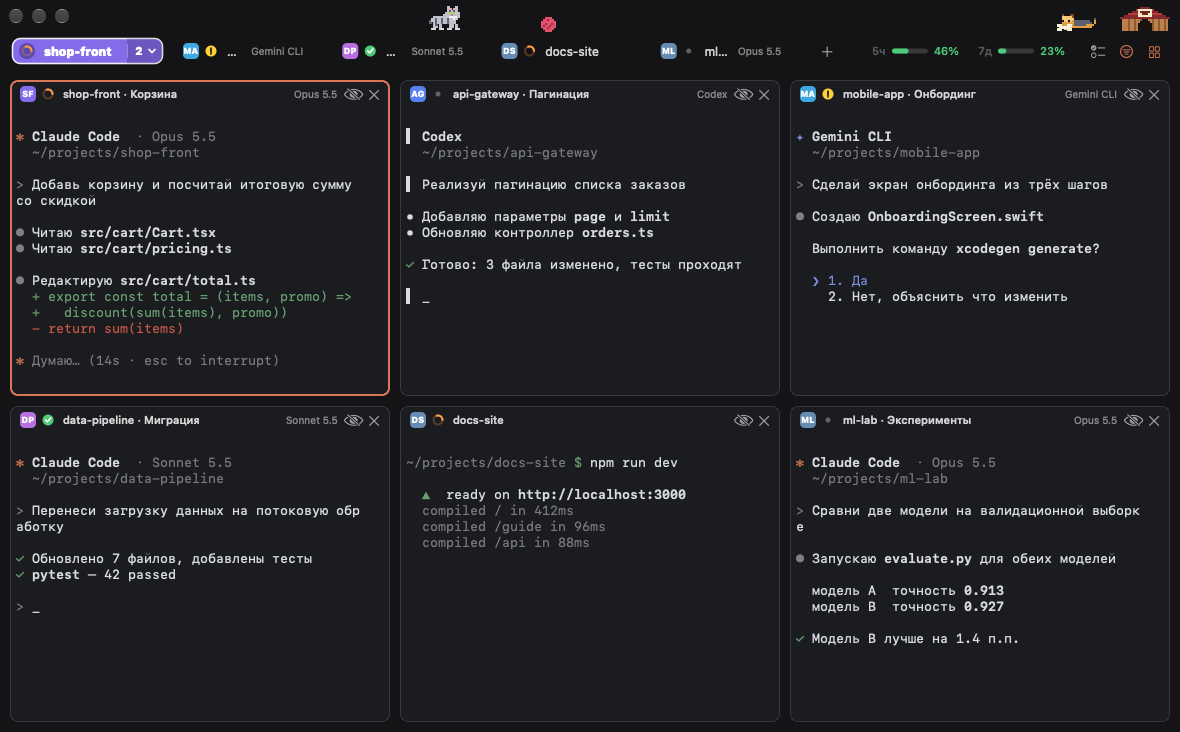
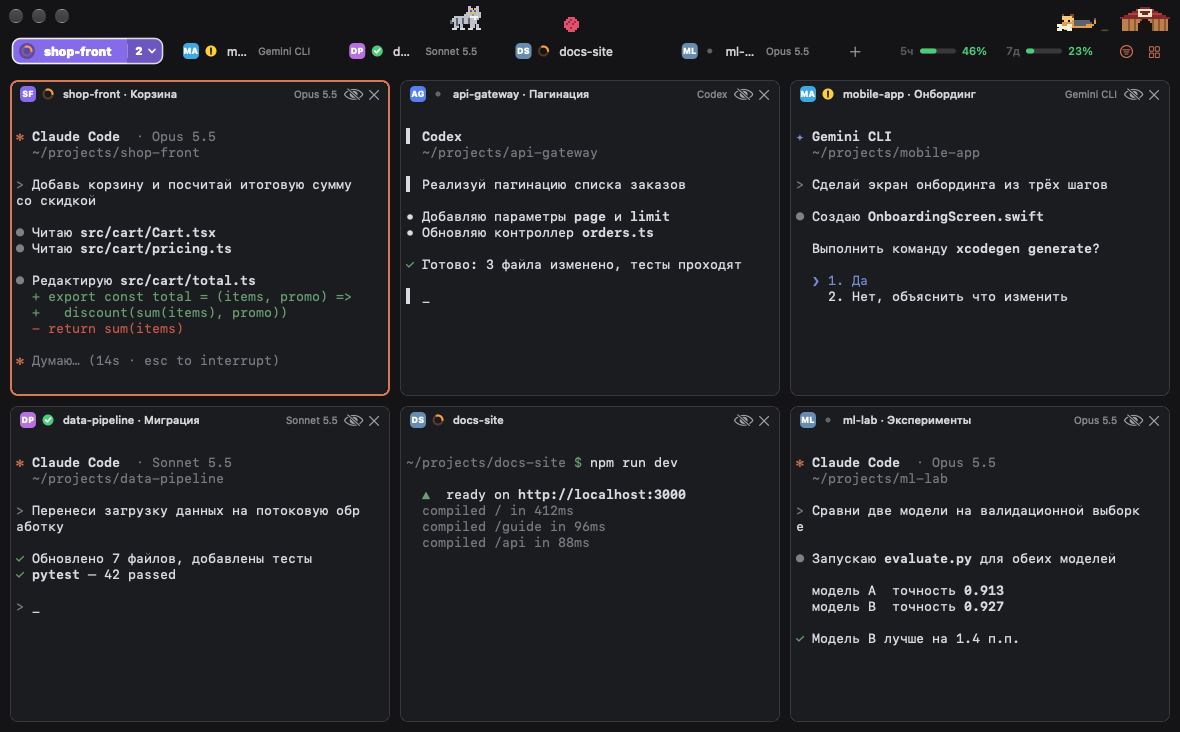
Убрана панель плана агента (0.19.0)
Панель, чтение плана из расшифровки, пример плана, кнопка в панели вкладок,
прогресс в шапке окна сетки, пункты меню, картинка и раздел в README удалены.

diff --git a/Sources/Terminalus/TerminalSession.swift b/Sources/Terminalus/TerminalSession.swift
@@ -155,13 +155,6 @@ final class TerminalSession: LocalProcessTerminalViewDelegate {
     private(set) var contextPercent: Int?
     /// Идентификатор сеанса Claude (из statusLine) — чтобы будить вкладку точным `claude --resume`.
     private(set) var claudeSessionID: String?
-    /// Файл расшифровки сеанса (из statusLine) и прочитанный из него план.
-    private(set) var transcriptPath: String?
-    private(set) var plan: AgentPlan?
-    private var planMTime: Date?
-    private var planCheckedAt = Date.distantPast
-    /// Показан вымышленный пример плана (меню «Вид → Пример плана в панели»).
-    private(set) var demoPlanActive = false
     /// Вкладка в архиве: процессы остановлены, вкладка и её бейдж остаются.
     private(set) var isSleeping = false
     private var selectedAt = Date()
@@ -279,42 +272,6 @@ final class TerminalSession: LocalProcessTerminalViewDelegate {
 
     func touch() { selectedAt = Date() }
 
-    /// Обновляет план из расшифровки (не чаще раза в 2 с и только если файл изменился).
-    func refreshPlan(force: Bool = false) {
-        if demoPlanActive { return }
-        guard agentID == "claude", let path = transcriptPath else { if plan != nil { plan = nil }; return }
-        let now = Date()
-        guard force || now.timeIntervalSince(planCheckedAt) >= 2 else { return }
-        planCheckedAt = now
-        guard let m = (try? FileManager.default.attributesOfItem(atPath: path))?[.modificationDate] as? Date else { return }
-        guard force || m != planMTime else { return }
-        planMTime = m
-        let newPlan = PlanReader.read(transcriptPath: path)
-        if newPlan != plan { plan = newPlan }
-    }
-
-    /// Для демонстрационных скриншотов.
-    func applyDemoPlan(_ p: AgentPlan?) { plan = p }
-
-    /// Вымышленный план — чтобы посмотреть, как выглядит панель, пока у агента нет настоящего.
-    func setDemoPlan(_ on: Bool) {
-        demoPlanActive = on
-        if on {
-            plan = AgentPlan(items: [
-                PlanItem(text: "Изучить, как устроена авторизация сейчас", active: nil, status: .completed),
-                PlanItem(text: "Добавить таблицу сессий в базу", active: nil, status: .completed),
-                PlanItem(text: "Реализовать вход по почте и паролю", active: "Реализую вход по почте и паролю", status: .inProgress),
-                PlanItem(text: "Подключить проверку токена в API", active: nil, status: .pending),
-                PlanItem(text: "Написать тесты для входа и выхода", active: nil, status: .pending),
-                PlanItem(text: "Обновить документацию", active: nil, status: .pending),
-            ], planText: nil)
-        } else {
-            plan = nil
-            planMTime = nil
-            refreshPlan(force: true)
-        }
-    }
-
     /// Для демонстрационных скриншотов: задать вымышленное состояние.
     func applyDemo(status: SessionStatus, model: String?, context: Int?, agent: String?) {
         self.status = status
@@ -350,7 +307,6 @@ final class TerminalSession: LocalProcessTerminalViewDelegate {
         guard let data = try? Data(contentsOf: tabFileURL),
               let obj = (try? JSONSerialization.jsonObject(with: data)) as? [String: Any] else { return }
         if let sid = obj["session_id"] as? String, !sid.isEmpty { claudeSessionID = sid }
-        if let tp = obj["transcript_path"] as? String, !tp.isEmpty { transcriptPath = tp }
         if let model = obj["model"] as? [String: Any], let n = model["display_name"] as? String { modelName = n }
         if let cw = obj["context_window"] as? [String: Any],
            let p = (cw["used_percentage"] as? NSNumber)?.intValue { contextPercent = p }
@@ -432,9 +388,7 @@ final class TerminalSession: LocalProcessTerminalViewDelegate {
     func tick(isSelected: Bool) -> Bool {
         if isSleeping { return false }
         let before = (displayTitle, status, cwd, modelName, contextPercent, agentID)
-        let planBefore = plan
         refreshModel()
-        refreshPlan()
 
         let pid = view.process.shellPid
         if pid > 0, let d = Self.cwd(of: pid), d != cwd {
@@ -479,7 +433,7 @@ final class TerminalSession: LocalProcessTerminalViewDelegate {
                 onEvent?(.finished)
             }
         }
-        return before != (displayTitle, status, cwd, modelName, contextPercent, agentID) || plan != planBefore
+        return before != (displayTitle, status, cwd, modelName, contextPercent, agentID)
     }
 
     // MARK: LocalProcessTerminalViewDelegate

diff --git a/Sources/Terminalus/MainWindowController.swift b/Sources/Terminalus/MainWindowController.swift
@@ -39,7 +39,6 @@ final class MainWindowController: NSWindowController, NSWindowDelegate {
     private let tabBar = TabBarView(frame: .zero)
     private let content = NSView()
     private let grid = GridView(frame: .zero)
-    private let planPanel = PlanPanelView(frame: .zero)
     private let catView = CatView(frame: .zero)
 
     private var selected: TerminalSession? { sessions.first { $0.id == selectedID } }
@@ -62,13 +61,11 @@ final class MainWindowController: NSWindowController, NSWindowDelegate {
         root.autoresizingMask = [.width, .height]
         window.contentView = root
 
-        content.autoresizingMask = []          // размеры задаёт layoutRoot (справа может быть панель плана)
-        planPanel.autoresizingMask = []
+        content.autoresizingMask = [.width, .height]
         content.wantsLayer = true
         content.layer?.backgroundColor = Theme.terminalBG.cgColor
         tabBar.autoresizingMask = [.width, .minYMargin]
         root.addSubview(content)
-        root.addSubview(planPanel)
         root.addSubview(tabBar)
         layoutRoot()
 
@@ -87,7 +84,6 @@ final class MainWindowController: NSWindowController, NSWindowDelegate {
         tabBar.onFilter = { [weak self] in self?.showGridFilterMenu(from: $0) }
         tabBar.onMove = { [weak self] id, idx in self?.move(id, toInsertionIndex: idx) }
         tabBar.onBackToGrid = { [weak self] in self?.setGrid(true) }
-        tabBar.onTogglePlan = { [weak self] in self?.togglePlanPanel() }
         tabBar.tabMenuProvider = { [weak self] id in self?.tabMenu(for: id) }
         tabBar.onShowPinned = { [weak self] in self?.showPinnedMenu(from: $0) }
 
@@ -495,31 +491,8 @@ final class MainWindowController: NSWindowController, NSWindowDelegate {
     private func layoutRoot() {
         guard let root = window?.contentView else { return }
         let h = TabBarView.height
-        let pw: CGFloat = Settings.planPanel ? PlanPanelView.width : 0
         tabBar.frame = NSRect(x: 0, y: root.bounds.height - h, width: root.bounds.width, height: h)
-        content.frame = NSRect(x: 0, y: 0, width: max(0, root.bounds.width - pw), height: root.bounds.height - h)
-        planPanel.frame = NSRect(x: root.bounds.width - pw, y: 0, width: PlanPanelView.width, height: root.bounds.height - h)
-        planPanel.isHidden = pw == 0
-        tabBar.setPlanActive(pw > 0)
-    }
-
-    /// Панель плана агента (⌥⌘P).
-    func togglePlanPanel() {
-        Settings.planPanel.toggle()
-        layoutRoot()
-        selected?.refreshPlan(force: true)
-        planPanel.update(session: selected)
-    }
-
-    func windowDidResize(_ notification: Notification) { layoutRoot() }
-
-    /// Показать/убрать вымышленный план у выбранной вкладки (посмотреть, как выглядит панель).
-    func toggleDemoPlan() {
-        guard let s = selected else { return }
-        s.setDemoPlan(!s.demoPlanActive)
-        if s.demoPlanActive && !Settings.planPanel { togglePlanPanel() }
-        planPanel.update(session: s)
-        grid.update(sessions: sessions)
+        content.frame = NSRect(x: 0, y: 0, width: root.bounds.width, height: root.bounds.height - h)
     }
 
 
@@ -656,7 +629,6 @@ final class MainWindowController: NSWindowController, NSWindowDelegate {
             }
         }
         updateCatMood()
-        if Settings.planPanel { planPanel.update(session: selected) }
         guard changed else { return }
         reloadTabBar()
         grid.update(sessions: sessions)
@@ -684,7 +656,6 @@ final class MainWindowController: NSWindowController, NSWindowDelegate {
             content.addSubview(v)
         }
         if current.view.window != nil { window?.makeFirstResponder(current.view) }
-        if Settings.planPanel { selected?.refreshPlan(force: true); planPanel.update(session: selected) }
         updateBadge()
         saveState()
     }

diff --git a/Sources/Terminalus/TabBarView.swift b/Sources/Terminalus/TabBarView.swift
@@ -186,7 +186,6 @@ final class TabBarView: NSView {
     var onToggleGrid: (() -> Void)?
     var onFilter: ((NSView) -> Void)?
     var onBackToGrid: (() -> Void)?
-    var onTogglePlan: (() -> Void)?
     var tabMenuProvider: ((UUID) -> NSMenu?)?
     var onShowPinned: ((NSView) -> Void)?
 
@@ -197,7 +196,6 @@ final class TabBarView: NSView {
     private var addButton: NSButton!
     private var gridButton: NSButton!
     private var filterButton: NSButton!
-    private var planButton: NSButton!
     private let indicator = NSView()
     private var backButton: NSButton!
     let limits = LimitsView(frame: .zero)
@@ -212,8 +210,7 @@ final class TabBarView: NSView {
         gridButton = symbolButton("square.grid.2x2", tip: "Сетка (⇧⌘G)", target: self, action: #selector(gridClicked))
         filterButton = symbolButton("line.3.horizontal.decrease.circle", tip: "Какие вкладки показывать в сетке",
                                     target: self, action: #selector(filterClicked))
-        planButton = symbolButton("checklist", tip: "Панель плана агента (⌥⌘P)", target: self, action: #selector(planClicked))
-        [addButton, gridButton, filterButton, planButton].forEach { addSubview($0!) }
+        [addButton, gridButton, filterButton].forEach { addSubview($0!) }
         backButton = NSButton(title: " К сетке", target: self, action: #selector(backClicked))
         backButton.image = NSImage(systemSymbolName: "square.grid.2x2", accessibilityDescription: "К сетке")
         backButton.imagePosition = .imageLeading
@@ -242,9 +239,6 @@ final class TabBarView: NSView {
     @objc private func gridClicked() { onToggleGrid?() }
     @objc private func filterClicked() { onFilter?(filterButton) }
     @objc private func backClicked() { onBackToGrid?() }
-    @objc private func planClicked() { onTogglePlan?() }
-
-    func setPlanActive(_ on: Bool) { planButton.contentTintColor = on ? Theme.accent : .secondaryLabelColor }
 
     private var returnToGrid = false
 
@@ -309,7 +303,7 @@ final class TabBarView: NSView {
     private var leftInset: CGFloat { 12 }   // кнопки окна теперь в отдельной строке заголовка выше
 
     private var pinnedCount = 0
-    private var rightReserved: CGFloat { limits.preferredWidth + 12 + 94 + (returnToGrid ? 96 : 0) }
+    private var rightReserved: CGFloat { limits.preferredWidth + 12 + 66 + (returnToGrid ? 96 : 0) }
     private var pinnedBlockWidth: CGFloat { pinned.isHidden ? 0 : pinned.preferredWidth + 10 }
 
     private var tabWidth: CGFloat {
@@ -336,9 +330,8 @@ final class TabBarView: NSView {
         addButton.frame = NSRect(x: x + 6, y: (bounds.height - bh) / 2, width: 22, height: bh)
         gridButton.frame = NSRect(x: bounds.width - 38, y: (bounds.height - bh) / 2, width: 24, height: bh)
         filterButton.frame = NSRect(x: bounds.width - 66, y: (bounds.height - bh) / 2, width: 24, height: bh)
-        planButton.frame = NSRect(x: bounds.width - 94, y: (bounds.height - bh) / 2, width: 24, height: bh)
         let lw = limits.preferredWidth
-        limits.frame = NSRect(x: bounds.width - 94 - 12 - lw, y: 0, width: lw, height: bounds.height)
+        limits.frame = NSRect(x: bounds.width - 66 - 12 - lw, y: 0, width: lw, height: bounds.height)
         let bw: CGFloat = 86
         backButton.frame = NSRect(x: limits.frame.minX - 10 - bw, y: (bounds.height - 22) / 2, width: bw, height: 22)
     }

diff --git a/scripts/demo/main.swift b/scripts/demo/main.swift
@@ -223,32 +223,6 @@ MainActor.assumeIsolated {
     settle()
     snap(frameView, "tabs", terminals: [chosen.view])
 
-    // ---------- 3б. панель плана агента
-    let working = sessions[0]
-    working.applyDemoPlan(AgentPlan(items: [
-        PlanItem(text: "Изучить текущий компонент корзины", active: nil, status: .completed),
-        PlanItem(text: "Добавить расчёт скидки по промокоду", active: nil, status: .completed),
-        PlanItem(text: "Вывести итоговую сумму в корзине", active: "Вывожу итоговую сумму в корзине", status: .inProgress),
-        PlanItem(text: "Написать тесты для расчёта", active: nil, status: .pending),
-        PlanItem(text: "Обновить документацию", active: nil, status: .pending),
-    ], planText: nil))
-    let panel = PlanPanelView(frame: NSRect(x: root0.bounds.width - PlanPanelView.width, y: 0, width: PlanPanelView.width, height: root0.bounds.height - TabBarView.height))
-    root0.addSubview(panel)
-    content.frame.size.width = root0.bounds.width - PlanPanelView.width
-    chosen.view.removeFromSuperview()
-    working.view.removeFromSuperview()
-    working.view.frame = content.bounds.insetBy(dx: 8, dy: 6)
-    working.view.autoresizingMask = [.width, .height]
-    content.addSubview(working.view)
-    tabBar.reload(sessions: sessions, selected: working.id, gridMode: false)
-    tabBar.setPlanActive(true)
-    panel.update(session: working)
-    settle()
-    working.view.terminal.resetToInitialState()
-    working.view.feed(text: "\r\n" + demos[0].screen.joined(separator: "\r\n"))
-    settle()
-    snap(frameView, "plan-panel", terminals: [working.view])
-
     // ---------- 4. настройки агентов и вопрос при первом запуске
     Agents.defaultID = "claude"
     let agents = AgentsWindowController.shared

diff --git a/Sources/Terminalus/GridView.swift b/Sources/Terminalus/GridView.swift
@@ -68,7 +68,7 @@ final class GridCellView: NSView, NSDraggingSource {
         badge.name = s.folder
         badge.isHidden = s.folder == nil
         dot.status = s.status
-        modelLabel.stringValue = [s.plan?.chip, s.modelName ?? s.agentName].compactMap { $0 }.joined(separator: " · ")
+        modelLabel.stringValue = s.modelName ?? s.agentName ?? ""
         tagStrip.layer?.backgroundColor = s.tag?.color.cgColor
         tagStrip.isHidden = s.tag == nil
         needsLayout = true
@@ -95,7 +95,7 @@ final class GridCellView: NSView, NSDraggingSource {
         badge.frame = NSRect(x: 10, y: top + (h - bs) / 2, width: bs, height: bs)
         let dx: CGFloat = badge.isHidden ? 10 : 10 + bs + 6
         dot.frame = NSRect(x: dx, y: top + (h - d) / 2, width: d, height: d)
-        let mw = modelLabel.stringValue.isEmpty ? 0 : min(140, ceil(modelLabel.intrinsicContentSize.width) + 2)
+        let mw = modelLabel.stringValue.isEmpty ? 0 : min(96, ceil(modelLabel.intrinsicContentSize.width) + 2)
         modelLabel.frame = NSRect(x: bounds.width - 52 - mw, y: top + (h - 13) / 2, width: mw, height: 13)
         titleLabel.frame = NSRect(x: dx + d + 7, y: top + (h - 14) / 2,
                                   width: max(0, bounds.width - 62 - mw - (dx + d + 7)), height: 14)

diff --git a/Sources/Terminalus/AppDelegate.swift b/Sources/Terminalus/AppDelegate.swift
@@ -42,8 +42,6 @@ final class AppDelegate: NSObject, NSApplicationDelegate {
         controller.newSession(agent: Agents.profile(sender.representedObject as? String))
     }
     @objc func showAgents() { AgentsWindowController.shared.present() }
-    @objc func togglePlan() { controller.togglePlanPanel() }
-    @objc func toggleDemoPlan() { controller.toggleDemoPlan() }
     @objc func closeTab() { controller.closeCurrent() }
     @objc func toggleGrid() { controller.toggleGrid() }
     @objc func nextTab() { controller.selectNext(1) }
@@ -200,8 +198,6 @@ final class AppDelegate: NSObject, NSApplicationDelegate {
 
         var viewItems: [NSMenuItem] = [
             item("Режим сетки", #selector(toggleGrid), "g", [.command, .shift], target: self),
-            item("Панель плана агента", #selector(togglePlan), "p", [.command, .option], target: self),
-            item("Пример плана в панели (для просмотра)", #selector(toggleDemoPlan), target: self),
             .separator(),
             item("Следующая вкладка", #selector(nextTab), "}", [.command], target: self),
             item("Предыдущая вкладка", #selector(prevTab), "{", [.command], target: self),

diff --git a/Sources/Terminalus/Settings.swift b/Sources/Terminalus/Settings.swift
@@ -81,10 +81,4 @@ enum Settings {
         get { UserDefaults.standard.object(forKey: "useMetal") as? Bool ?? true }
         set { UserDefaults.standard.set(newValue, forKey: "useMetal") }
     }
-
-    /// Панель плана агента справа.
-    static var planPanel: Bool {
-        get { UserDefaults.standard.bool(forKey: "planPanel") }
-        set { UserDefaults.standard.set(newValue, forKey: "planPanel") }
-    }
 }

diff --git a/README.md b/README.md
@@ -85,10 +85,6 @@ Terminalus не привязан к одному агенту. **При перв
 - **Индикатор у каждой вкладки**: 🟠 работает (вращается), 🟡 ждёт вашего ответа (запрос разрешения), 🟢 завершилось, ⚪ ожидание, ☾ в архиве.
 - **Системные уведомления** и бейдж в Dock, когда задача закончилась или Claude ждёт ответа, а вы смотрите в другое место.
 - **Лимиты подписки** (5 часов и неделя) и **модель** Claude (`Opus 5.5` и т. п.) с процентом контекста — прямо в панели; данные берутся из `statusLine` Claude Code.
-- **Панель плана агента** (`⌥⌘P` или кнопка в панели вкладок): справа показывается список дел выбранной вкладки — что выполнено, что делается сейчас, что впереди, с полоской прогресса; в шапке окна сетки у каждого окна виден прогресс «3/7». План читается из расшифровки сеанса Claude Code (инструменты `TodoWrite` и `ExitPlanMode`), поэтому он появляется, когда агент ведёт список дел, и нужен подключённый statusLine (см. «Лимиты и модель Claude»). Для других агентов чтение плана пока не поддерживается.
-
-<p align="center"><img src="docs/images/screens/plan-panel.png" width="900" alt="Панель плана агента справа"></p>
-
 - **Название папки** у каждой вкладки; цветной бейдж с инициалами, разбор `camelCase`:
 
 <p align="center"><img src="docs/images/folder-badges.png" width="760" alt="Бейджи папок"></p>
@@ -127,7 +123,6 @@ Terminalus не привязан к одному агенту. **При перв
 | Выбрать вкладку | `⌘1`…`⌘9` |
 | Следующая / предыдущая | `⇧⌘]` / `⇧⌘[`, `⌘⌥→` / `⌘⌥←`, `⌃⇥` |
 | Режим сетки | `⇧⌘G` |
-| Панель плана агента | `⌥⌘P` |
 | Шрифт вкладки | `⌘+` / `⌘−` / `⌘0` |
 | Очистить экран | `⌘K` |
 | Шрифт по умолчанию | `⌘,` |
@@ -142,7 +137,6 @@ Sources/Terminalus/
 ├── GridView / GridLayout  сетка: дерево разбиений, перетаскивание, анимации
 ├── CatView + CatArt/DogArt/PixelArt   питомцы (вектор и пиксели)
 ├── Agents / AgentsWindow  профили агентов, определение по процессу, настройки и вопрос при первом запуске
-├── PlanPanel              чтение плана из расшифровки сеанса и панель справа
 ├── Limits                 лимиты и модель из statusLine Claude Code
 └── Notifier, FolderBadge, StatusDotView, …
 Vendor/SwiftTerm           эмулятор терминала (v1.20.0, MIT) + наш патч, см. Vendor/PATCHES.md

diff --git a/Resources/CHANGELOG.md b/Resources/CHANGELOG.md
@@ -1,5 +1,8 @@
 # История версий
 
+## 0.19.0 — 13.11.2026
+- Убрана панель плана агента (вместе с примером плана, кнопкой в панели вкладок и прогрессом «3/7» в сетке): у используемых агентов нет сохранённого плана, который можно было бы показывать
+
 ## 0.18.1 — 13.11.2026
 - «Вид → Пример плана в панели»: показывает вымышленный план у выбранной вкладки (с пометкой «пример»), чтобы посмотреть панель, пока у агента нет настоящего плана; повторный выбор убирает пример
 
